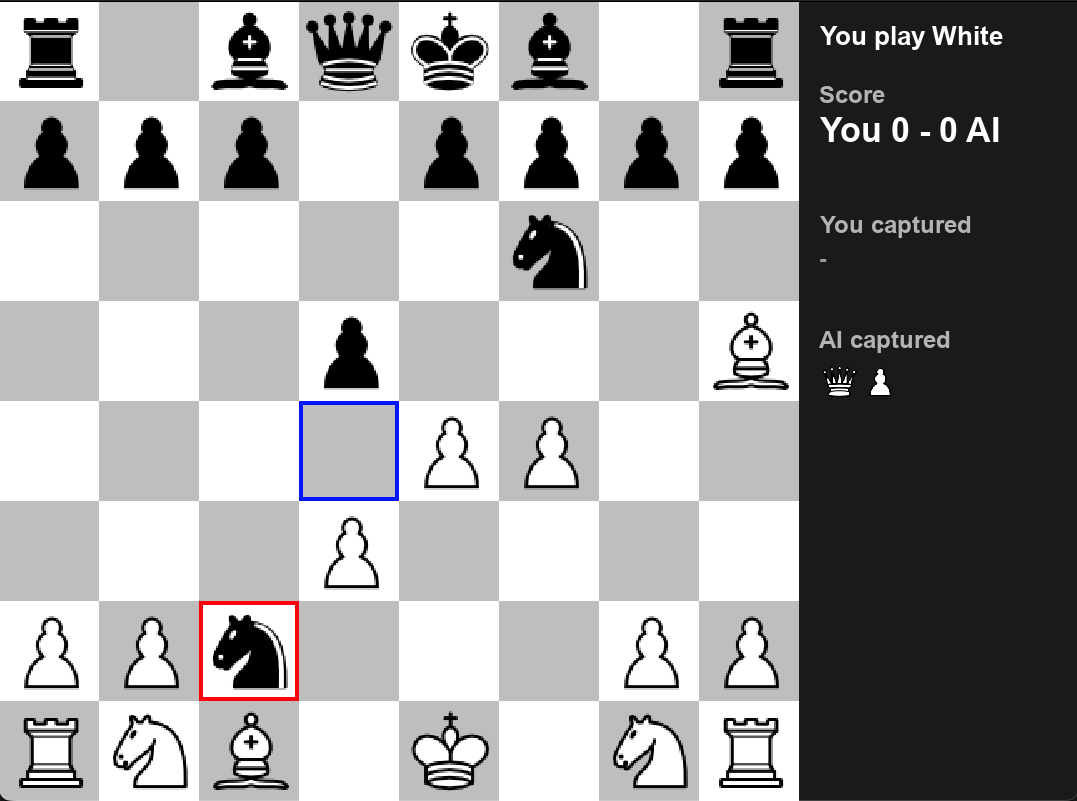
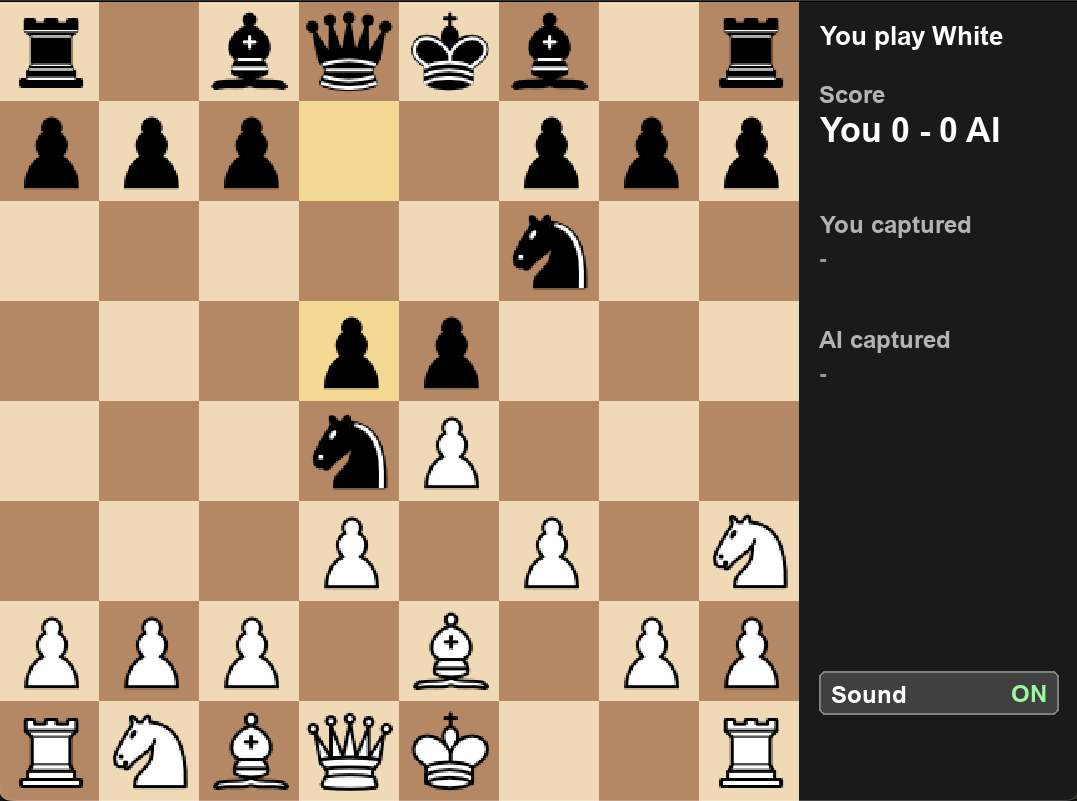
add sound; depth option and improve board ui

diff --git a/gui.py b/gui.py
@@ -1,11 +1,17 @@
+import argparse
 import threading
 
+import numpy as np
 import pygame
 from state import State
 import chess
 from play import alphaBetaMax, load_model, human_move
 
 # pygame setup
+try:
+    pygame.mixer.pre_init(44100, -16, 1, 512)
+except pygame.error:
+    pass
 pygame.init()
 
 # Constants
@@ -34,8 +40,39 @@ PIECES_TO_IMAGES = {
     'k': 'bk'   # Black King
 }
 
+LIGHT_SQ = pygame.Color("#f0d9b5")
+DARK_SQ = pygame.Color("#b58863")
+HIGHLIGHT = (246, 216, 92, 110)     # last move / selection wash
+DOT_COLOR = (20, 20, 20, 70)        # legal move markers
+
 screen = pygame.display.set_mode((WIDTH, HEIGHT))
 clock = pygame.time.Clock()
+
+SOUND_ON = True
+SOUNDS = {}
+
+# Synthesize a short percussive click so the repo needs no audio assets
+def make_sound(freq, ms=90):
+    rate = 44100
+    n = int(rate * ms / 1000)
+    t = np.arange(n) / rate
+    envelope = np.exp(-t * 38)
+    wave = np.sin(2 * np.pi * freq * t) * envelope * 0.35
+    return pygame.sndarray.make_sound((wave * 32767).astype(np.int16))
+
+def load_sounds():
+    if not pygame.mixer.get_init():
+        return
+    SOUNDS["move"] = make_sound(660)
+    SOUNDS["capture"] = make_sound(320, 130)
+
+def play_sound(board, move):
+    if not SOUND_ON or not SOUNDS or move is None:
+        return
+    # board is the position *after* the move was pushed, so step back to classify it
+    before = board.copy()
+    before.pop()
+    SOUNDS["capture" if before.is_capture(move) else "move"].play()
 
 # Convert a chess square to (col, row) on screen, given the board orientation
 def square_to_screen(square, flipped):
@@ -52,30 +89,42 @@ def screen_to_square(col, row, flipped):
     return chess.square(col, 7 - row)
 
 # Draw the chessboard
-def draw_board(screen, selected_square, last_move, flipped):
+def draw_board(screen, board, selected_square, last_move, flipped):
 
-    last_move_color_from = pygame.Color("blue")    # Color for source square
-    last_move_color_to = pygame.Color("red")
-
-    colors = [pygame.Color("white"), pygame.Color("gray")]
+    colors = [LIGHT_SQ, DARK_SQ]
     for r in range(DIMENSION):
         for c in range(DIMENSION):
             color = colors[(r + c) % 2]
             pygame.draw.rect(screen, color, pygame.Rect(c*SQ_SIZE, r*SQ_SIZE, SQ_SIZE, SQ_SIZE))
 
-    if selected_square is not None:
-            col, row = square_to_screen(selected_square, flipped)
-            pygame.draw.rect(screen, last_move_color_from, pygame.Rect(col*SQ_SIZE, row*SQ_SIZE, SQ_SIZE, SQ_SIZE), 4)
-
-    # Highlight the last move's source and destination squares
+    # Soft wash over the last move's source and destination squares
     if last_move is not None:
-        # Highlight source square
-        col_from, row_from = square_to_screen(last_move.from_square, flipped)
-        pygame.draw.rect(screen, last_move_color_from, pygame.Rect(col_from*SQ_SIZE, row_from*SQ_SIZE, SQ_SIZE, SQ_SIZE), 4)
+        wash = pygame.Surface((SQ_SIZE, SQ_SIZE), pygame.SRCALPHA)
+        wash.fill(HIGHLIGHT)
+        for square in (last_move.from_square, last_move.to_square):
+            col, row = square_to_screen(square, flipped)
+            screen.blit(wash, (col*SQ_SIZE, row*SQ_SIZE))
 
-        # Highlight destination square
-        col_to, row_to = square_to_screen(last_move.to_square, flipped)
-        pygame.draw.rect(screen, last_move_color_to, pygame.Rect(col_to*SQ_SIZE, row_to*SQ_SIZE, SQ_SIZE, SQ_SIZE), 4)
+    if selected_square is not None:
+        col, row = square_to_screen(selected_square, flipped)
+        selection = pygame.Surface((SQ_SIZE, SQ_SIZE), pygame.SRCALPHA)
+        selection.fill(HIGHLIGHT)
+        screen.blit(selection, (col*SQ_SIZE, row*SQ_SIZE))
+        draw_move_hints(screen, board, selected_square, flipped)
+
+# Dots on empty targets, rings around capturable pieces
+def draw_move_hints(screen, board, from_square, flipped):
+    hints = pygame.Surface((BOARD_SIZE, BOARD_SIZE), pygame.SRCALPHA)
+    for move in board.legal_moves:
+        if move.from_square != from_square:
+            continue
+        col, row = square_to_screen(move.to_square, flipped)
+        center = (col*SQ_SIZE + SQ_SIZE//2, row*SQ_SIZE + SQ_SIZE//2)
+        if board.piece_at(move.to_square) is None:
+            pygame.draw.circle(hints, DOT_COLOR, center, SQ_SIZE//7)
+        else:
+            pygame.draw.circle(hints, DOT_COLOR, center, SQ_SIZE//2 - 4, 6)
+    screen.blit(hints, (0, 0))
 
 # Load images
 def load_images():
@@ -163,6 +212,21 @@ def draw_panel(screen, board, human_color, score, thinking):
     if thinking:
         draw_text_left(screen, "AI thinking...", 26, (x, HEIGHT - 60), pygame.Color("gold"))
 
+    return draw_toggle(screen, "Sound", SOUND_ON, (x, HEIGHT - 130))
+
+# Small on/off toggle, returns its clickable rect
+def draw_toggle(screen, label, on, topleft):
+    rect = pygame.Rect(topleft[0], topleft[1], PANEL_WIDTH - 40, 44)
+    pygame.draw.rect(screen, pygame.Color("gray25"), rect, border_radius=6)
+    pygame.draw.rect(screen, pygame.Color("gray50"), rect, 2, border_radius=6)
+    draw_text_left(screen, label, 24, (rect.x + 12, rect.y + 10))
+    state = "ON" if on else "OFF"
+    color = pygame.Color("palegreen") if on else pygame.Color("gray60")
+    font = pygame.font.SysFont("Arial", 24, bold=True)
+    surface = font.render(state, True, color)
+    screen.blit(surface, surface.get_rect(midright=(rect.right - 12, rect.centery)))
+    return rect
+
 # Start screen: pick a side. Returns chess.WHITE / chess.BLACK, or None if the window was closed.
 def choose_color(screen):
     while True:
@@ -219,16 +283,17 @@ def game_over_popup(screen, board, draw_game):
 
 
 # Run the search in a background thread on a copy of the board, so the window stays responsive
-def start_search(model, board, ai_is_white, result):
+def start_search(model, board, ai_is_white, result, depth):
     def run():
-        result.append(alphaBetaMax(3, State(board.copy()), -float("inf"), float("inf"), ai_is_white, model))
+        result.append(alphaBetaMax(depth, State(board.copy()), -float("inf"), float("inf"), ai_is_white, model))
     thread = threading.Thread(target=run, daemon=True)
     thread.start()
     return thread
 
 
 # Play a single game. Returns True to play again, False to quit.
-def play_game(model, human_color, score):
+def play_game(model, human_color, score, depth):
+    global SOUND_ON
     s = State()
     flipped = (human_color == chess.BLACK)  # keep the human's pieces at the bottom
     ai_is_white = (human_color == chess.BLACK)  # the AI maximizes when it plays white
@@ -238,15 +303,20 @@ def play_game(model, human_color, score):
     selected_square = None
     last_move = None
 
+    sound_rect = pygame.Rect(0, 0, 0, 0)
+
     def draw_game():
-        draw_board(screen, selected_square, last_move, flipped)
+        nonlocal sound_rect
+        draw_board(screen, s.board, selected_square, last_move, flipped)
         draw_pieces(screen, s.board, flipped)
-        draw_panel(screen, s.board, human_color, score, ai_thinking)
+        sound_rect = draw_panel(screen, s.board, human_color, score, ai_thinking)
 
     while True:
         for event in pygame.event.get():
             if event.type == pygame.QUIT:
                 return False
+            elif event.type == pygame.MOUSEBUTTONDOWN and sound_rect.collidepoint(event.pos):
+                SOUND_ON = not SOUND_ON
             elif event.type == pygame.MOUSEBUTTONDOWN and not ai_thinking and event.pos[0] < BOARD_SIZE:
                 col = event.pos[0] // SQ_SIZE
                 row = event.pos[1] // SQ_SIZE
@@ -254,16 +324,18 @@ def play_game(model, human_color, score):
                 s, selected_square, ai_thinking, move = human_move(selected_square, square, s, human_color)
                 if move is not None:
                     last_move = move
+                    play_sound(s.board, move)
 
         if ai_thinking and ai_thread is None and not s.board.is_game_over():
             ai_result = []
-            ai_thread = start_search(model, s.board, ai_is_white, ai_result)
+            ai_thread = start_search(model, s.board, ai_is_white, ai_result, depth)
 
         if ai_thread is not None and not ai_thread.is_alive():
             best_score, best_move = ai_result[0]
             print(f"AI MOVE: {best_move}")
             s.board.push(best_move)
             last_move = best_move
+            play_sound(s.board, best_move)
             ai_thinking = False
             ai_thread = None
 
@@ -291,15 +363,20 @@ def update_score(board, human_color, score):
 
 
 def main():
+    parser = argparse.ArgumentParser()
+    parser.add_argument("--depth", type=int, default=3, help="AI search depth (default: 3)")
+    args = parser.parse_args()
+
     model = load_model("nets/value.pth") # load ai model
     load_images() # load the images for the gui
+    load_sounds() # move/capture sounds, synthesized at startup
     score = {"human": 0, "ai": 0, "draws": 0}
 
     while True:
         human_color = choose_color(screen)
         if human_color is None:
             break
-        if not play_game(model, human_color, score):
+        if not play_game(model, human_color, score, args.depth):
             break
 
     pygame.quit()
